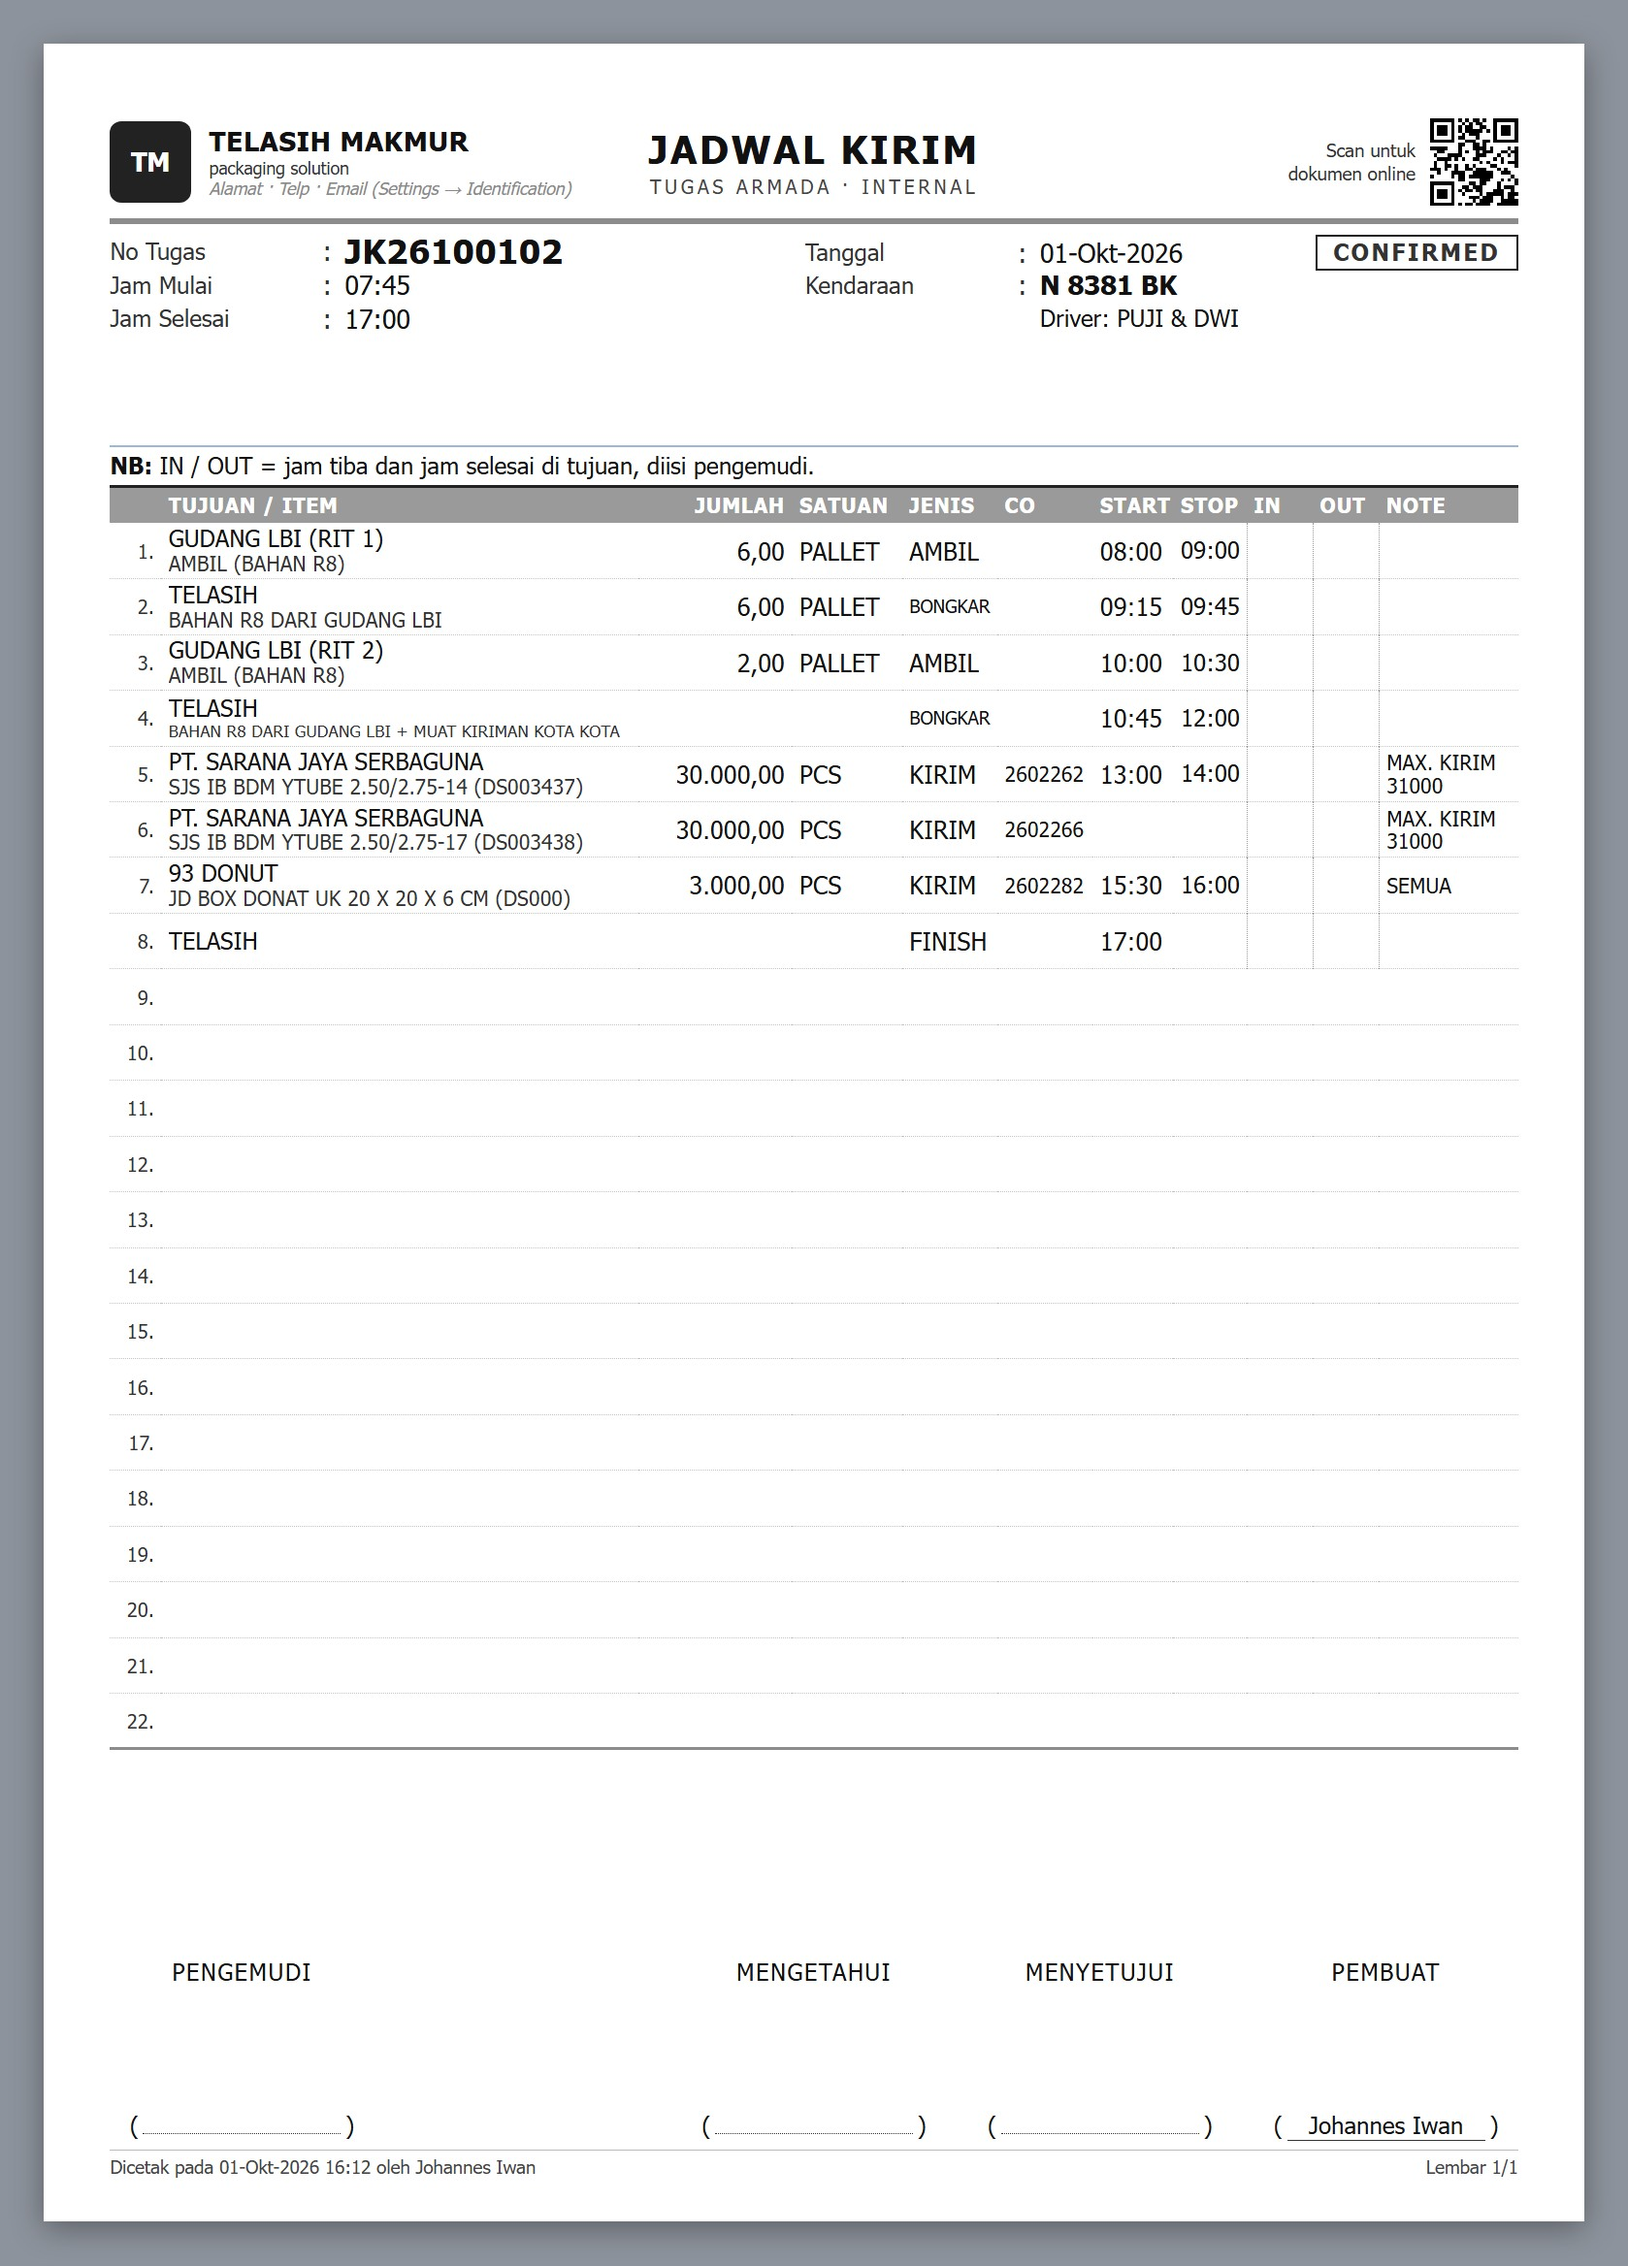
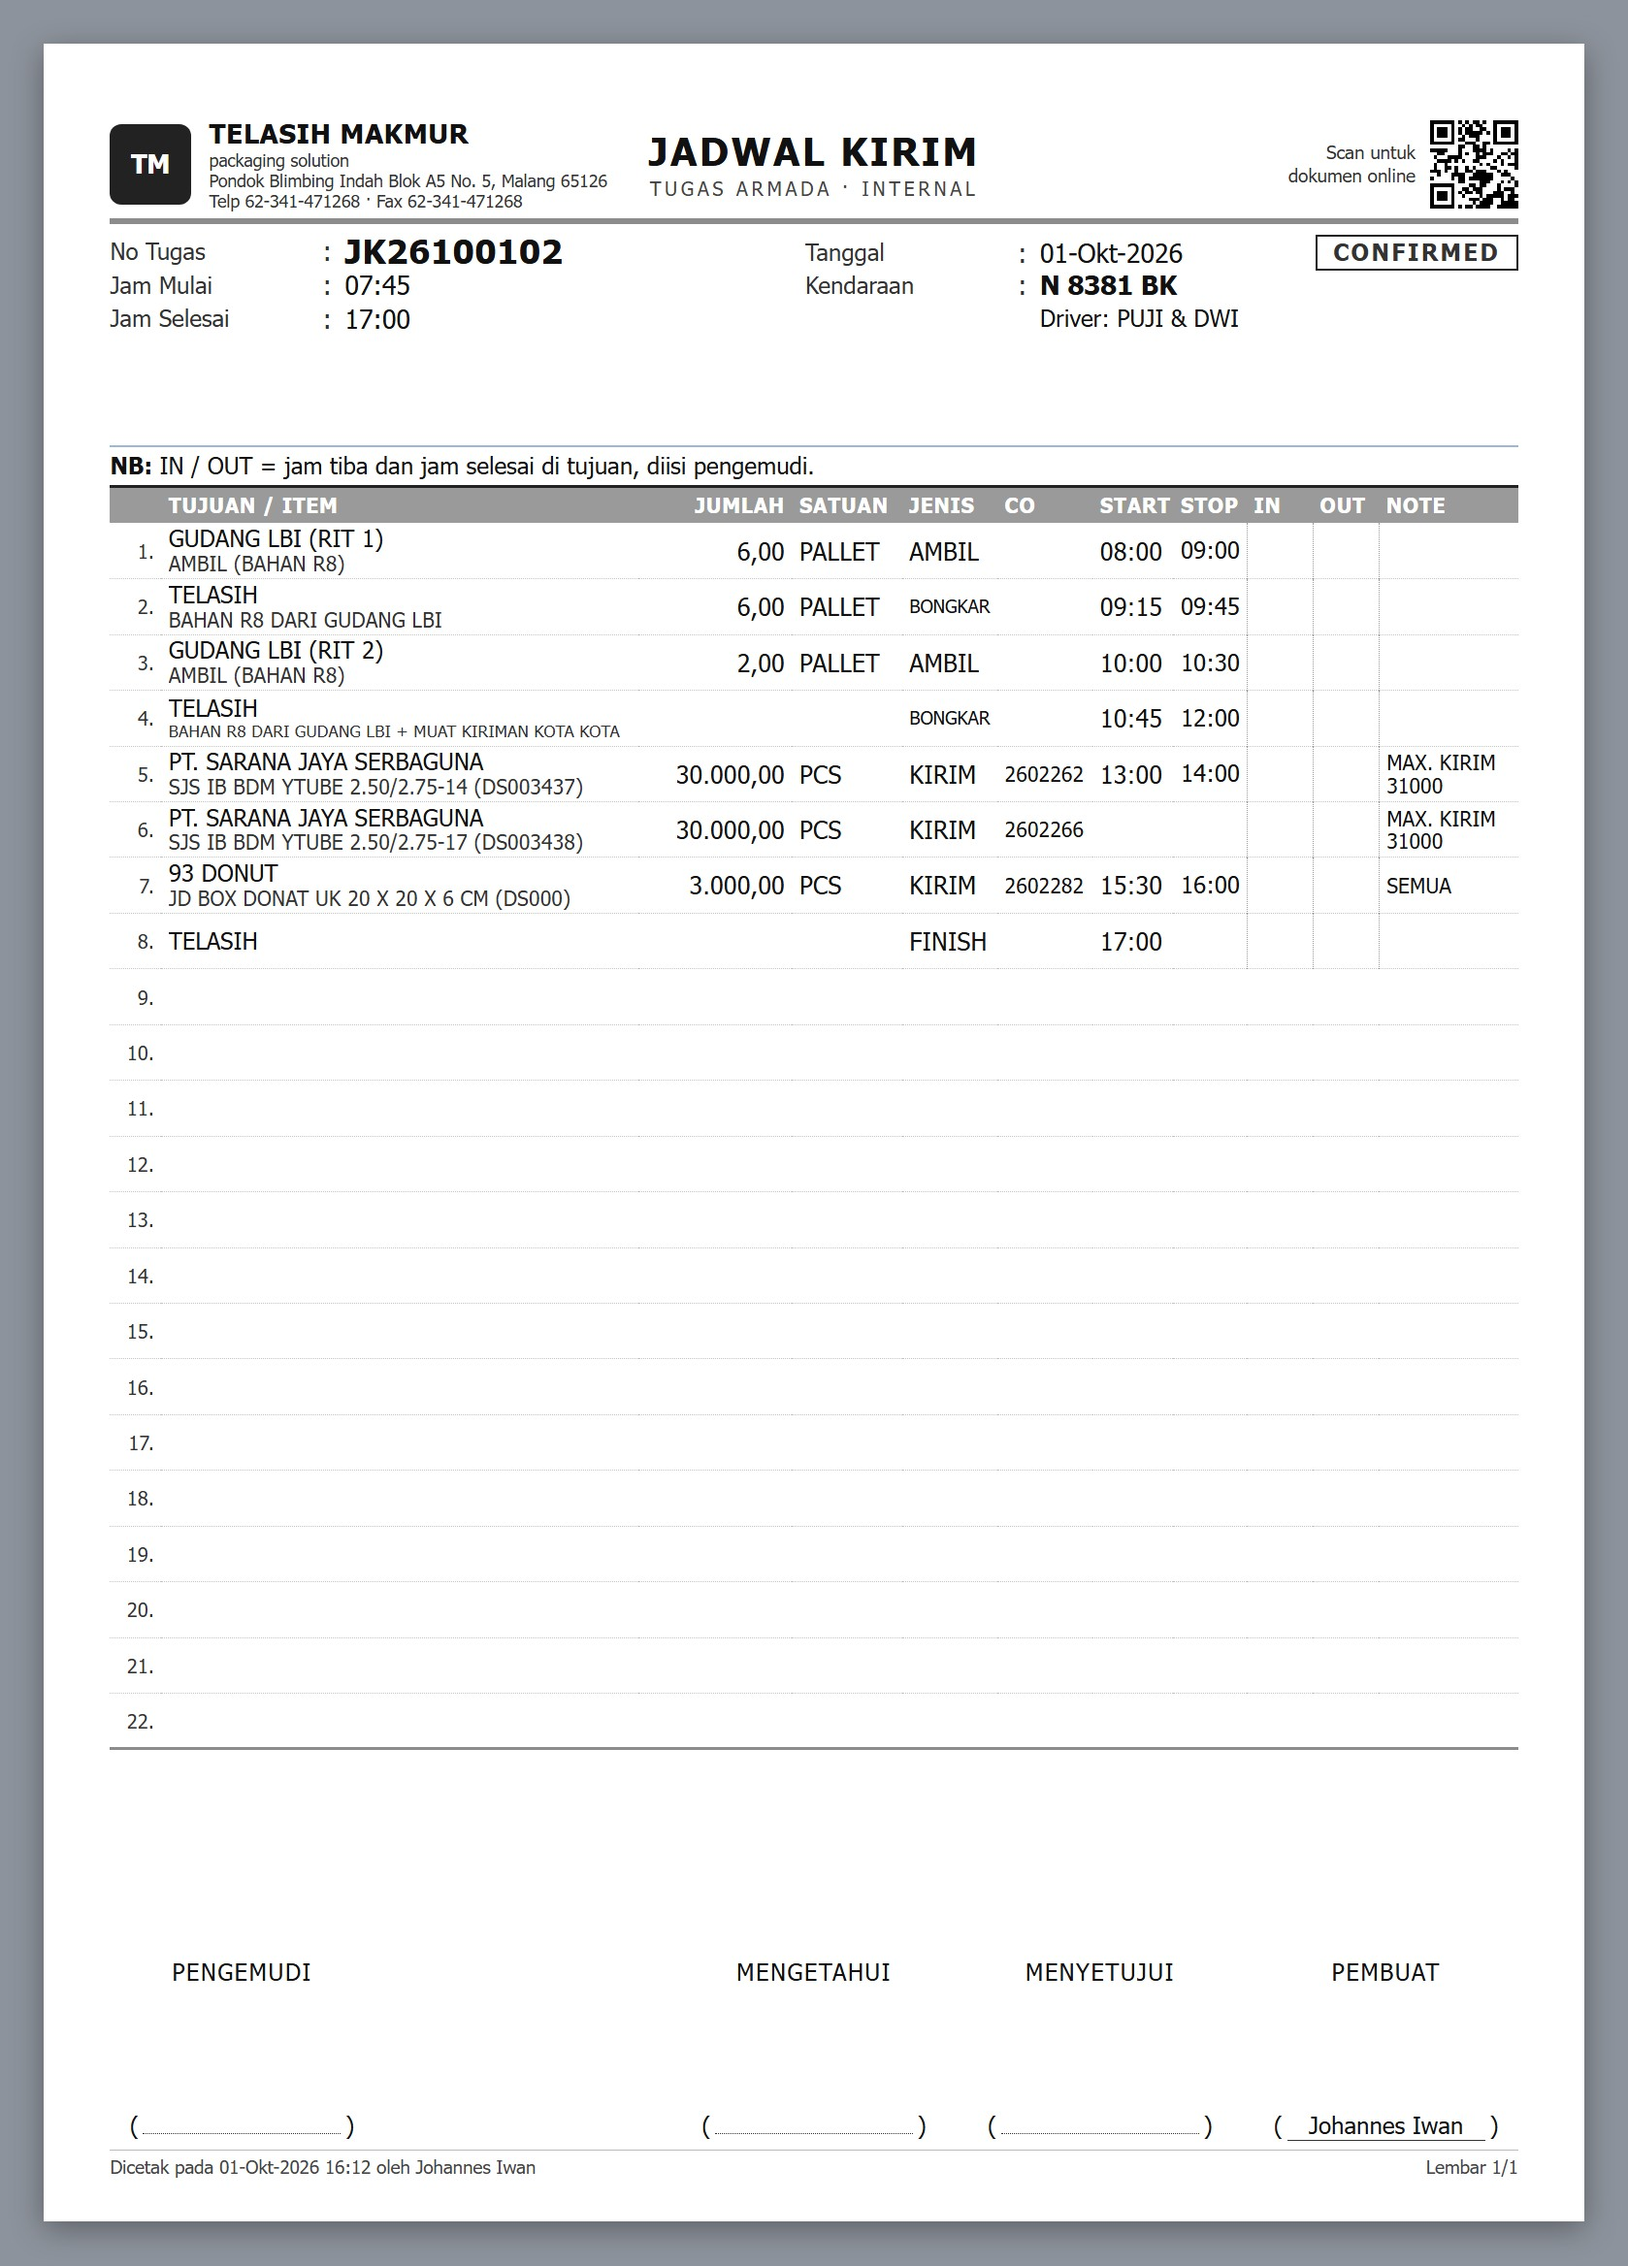
Print mockups: Telasih Makmur letterhead uses the Langgeng Jaya Makmur address, no NPWP
User 2026-10-01 (rulebook C.24): same address for both; Telasih Makmur does not use NPWP.

diff --git a/docs/mockups/print_doc/printdoc.js b/docs/mockups/print_doc/printdoc.js
@@ -32,8 +32,11 @@ class PrintDoc {
     // Dokumen berharga: HARGA dan SUBTOTAL selalu di posisi yang sama, di kanan zona varian.
     static PRICE_COLS = [{key: 'price', label: 'HARGA', width: 21, type: 'money'}, {key: 'subtotal', label: 'SUBTOTAL', width: 25, type: 'money'}];
     // Kop: dokumen Non PPN = Telasih Makmur; dokumen PPN = badan hukum + NPWP (keputusan user 2026-09-23).
-    static company = {initials: 'TM', name: 'TELASIH MAKMUR', lines: ['packaging solution'], missing: 'Alamat &middot; Telp &middot; Email (Settings &rarr; Identification)'};
-    static companyPpn = {initials: 'LJM', name: 'CV. LANGGENG JAYA MAKMUR', lines: ['Pondok Blimbing Indah Blok A5 No. 5, Malang 65126', 'Telp 62-341-471268 &middot; Fax 62-341-471268'], missing: 'NPWP (Settings &rarr; Identification)'};
+    // Alamat Telasih Makmur = alamat CV. Langgeng Jaya Makmur (keterangan user 2026-10-01).
+    static ADDRESS = ['Pondok Blimbing Indah Blok A5 No. 5, Malang 65126', 'Telp 62-341-471268 &middot; Fax 62-341-471268'];
+    // Telasih Makmur tidak memakai NPWP; NPWP hanya di kop dokumen PPN (CV. Langgeng Jaya Makmur).
+    static company = {initials: 'TM', name: 'TELASIH MAKMUR', lines: ['packaging solution', ...PrintDoc.ADDRESS]};
+    static companyPpn = {initials: 'LJM', name: 'CV. LANGGENG JAYA MAKMUR', lines: PrintDoc.ADDRESS, missing: 'NPWP (Settings &rarr; Identification)'};
     static registry = {};
     static register(c) { PrintDoc.registry[c.name] = c; return c; }
 
@@ -76,7 +79,7 @@ class PrintDoc {
     kop() {
         const c = this.company;
         return `<header class="kop">
-            <div class="co"><span class="logo">${c.initials}</span><div><b>${c.name}</b>${c.lines.map(l => `<small>${l}</small>`).join('')}<small class="ph">${c.missing}</small></div></div>
+            <div class="co"><span class="logo">${c.initials}</span><div><b>${c.name}</b>${c.lines.map(l => `<small>${l}</small>`).join('')}${c.missing ? `<small class="ph">${c.missing}</small>` : ''}</div></div>
             <h1>${this.f.title}${this.f.subtitle ? `<small>${this.f.subtitle}</small>` : ''}</h1>
             <div class="kopr"><small>Scan untuk<br>${this.f.qrHint}</small><div class="qr">${PrintDoc.qr()}</div></div>
         </header>`;

diff --git a/docs/globaluserrules.md b/docs/globaluserrules.md
@@ -174,6 +174,8 @@
     dan nama "oleh" di kaki dokumen harus sama** (satu sumber: nama orang pembuat dokumen). **Purchase Requisition ada
     dua jenis: Produksi** (kolom No CO + nama product di baris kedua nama barang) **dan Non Produksi** (ATK, komputer;
     No CO kosong); harga estimasi tetap di kolom Harga / Subtotal (usulan tata letak, menunggu OK user).
+    **Kop Telasih Makmur memakai alamat yang sama dengan CV. Langgeng Jaya Makmur** (Pondok Blimbing Indah Blok A5 No. 5,
+    Malang 65126, Telp/Fax 62-341-471268) dan **tidak memakai NPWP**; NPWP hanya di kop dokumen PPN.
 25. **Form ProDev berlatar putih — user 2026-10-01:** workbench Imposition (dulu gelap/navy) memakai **latar putih** seperti
     layar lain, warnanya lewat token tema DevLib (bukan hex). Tata letak dan isi tidak berubah; area gambar berlatar abu muda
     supaya lembar cetak (putih) tetap terlihat. Pratinjau & cetak Master Card tidak berubah.
